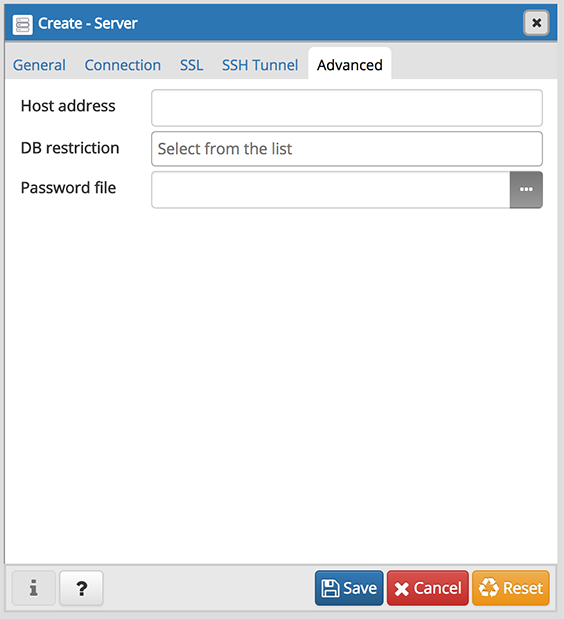
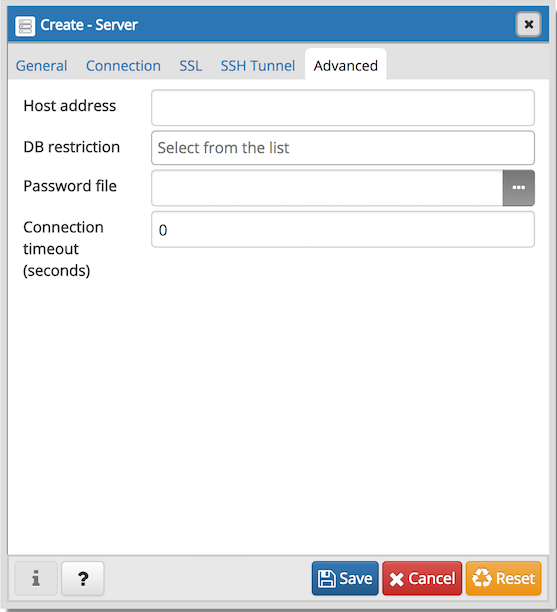
Allow the connection timeout to be configured on a per-server basis. Fixes #3388

Changed region(s): [[0.0, 0.0, 1.0, 1.0], [0.2747, 0.3415, 0.3052, 0.4036], [0.2442, 0.1552, 0.2747, 0.1863]]

diff --git a/web/pgadmin/browser/static/js/datamodel.js b/web/pgadmin/browser/static/js/datamodel.js
@@ -173,8 +173,8 @@ define([
                 id: s.id,
                 label: s.label,
                 type: s.type,
-                min: s.min || undefined,
-                max: s.max || undefined,
+                min: !_.isUndefined(s.min) ? s.min : undefined,
+                max: !_.isUndefined(s.max) ? s.max : undefined,
               };
               break;
             default:
@@ -767,9 +767,9 @@ define([
         min_value = field.min,
         max_value = field.max;
 
-      if (min_value && value < min_value) {
+      if (!_.isUndefined(min_value) && value < min_value) {
         return S(pgAdmin.Browser.messages.MUST_GR_EQ).sprintf(label, min_value).value();
-      } else if (max_value && value > max_value) {
+      } else if (!_.isUndefined(max_value) && value > max_value) {
         return S(pgAdmin.Browser.messages.MUST_LESS_EQ).sprintf(label, max_value).value();
       }
       return null;

diff --git a/web/pgadmin/browser/server_groups/servers/static/js/server.js b/web/pgadmin/browser/server_groups/servers/static/js/server.js
@@ -627,6 +627,7 @@ define('pgadmin.node.server', [
           tunnel_identity_file: undefined,
           tunnel_password: undefined,
           tunnel_authentication: 0,
+          connect_timeout: 0,
         },
         // Default values!
         initialize: function(attrs, args) {
@@ -888,6 +889,11 @@ define('pgadmin.node.server', [
           id: 'service', label: gettext('Service'), type: 'text',
           mode: ['properties', 'edit', 'create'], disabled: 'isConnected',
           group: gettext('Connection'),
+        },{
+          id: 'connect_timeout', label: gettext('Connection timeout (seconds)'),
+          type: 'int', group: gettext('Advanced'),
+          mode: ['properties', 'edit', 'create'], disabled: 'isConnected',
+          min: 0,
         }],
         validate: function() {
           const validateModel = new modelValidation.ModelValidation(this);

diff --git a/web/pgadmin/browser/server_groups/servers/tests/test_add_server_with_connect_timeout.py b/web/pgadmin/browser/server_groups/servers/tests/test_add_server_with_connect_timeout.py
@@ -1,0 +1,47 @@
+##########################################################################
+#
+# pgAdmin 4 - PostgreSQL Tools
+#
+# Copyright (C) 2013 - 2018, The pgAdmin Development Team
+# This software is released under the PostgreSQL Licence
+#
+##########################################################################
+
+import json
+
+from pgadmin.utils.route import BaseTestGenerator
+from regression.python_test_utils import test_utils as utils
+
+
+class ServersWithConnectTimeoutAddTestCase(BaseTestGenerator):
+    """ This class will add the servers under default server group. """
+
+    scenarios = [
+        # Fetch the default url for server object
+        (
+            'Default Server Node url', dict(
+                url='/browser/server/obj/'
+            )
+        )
+    ]
+
+    def setUp(self):
+        pass
+
+    def runTest(self):
+        """ This function will add the server under default server group."""
+        url = "{0}{1}/".format(self.url, utils.SERVER_GROUP)
+        # Add service name in the config
+        self.server['connect_timeout'] = 5
+        response = self.tester.post(
+            url,
+            data=json.dumps(self.server),
+            content_type='html/json'
+        )
+        self.assertEquals(response.status_code, 200)
+        response_data = json.loads(response.data.decode('utf-8'))
+        self.server_id = response_data['node']['_id']
+
+    def tearDown(self):
+        """This function delete the server from SQLite """
+        utils.delete_server_with_api(self.tester, self.server_id)

diff --git a/web/pgadmin/utils/driver/psycopg2/connection.py b/web/pgadmin/utils/driver/psycopg2/connection.py
@@ -307,7 +307,8 @@ class Connection(BaseConnection):
                 sslrootcert=get_complete_file_path(manager.sslrootcert),
                 sslcrl=get_complete_file_path(manager.sslcrl),
                 sslcompression=True if manager.sslcompression else False,
-                service=manager.service
+                service=manager.service,
+                connect_timeout=manager.connect_timeout
             )
 
             # If connection is asynchronous then we will have to wait
@@ -1234,7 +1235,8 @@ WHERE
                 sslrootcert=get_complete_file_path(manager.sslrootcert),
                 sslcrl=get_complete_file_path(manager.sslcrl),
                 sslcompression=True if manager.sslcompression else False,
-                service=manager.service
+                service=manager.service,
+                connect_timeout=manager.connect_timeout
             )
 
         except psycopg2.Error as e:
@@ -1519,7 +1521,8 @@ Failed to reset the connection to the server due to following error:
                     sslcrl=get_complete_file_path(self.manager.sslcrl),
                     sslcompression=True if self.manager.sslcompression
                     else False,
-                    service=self.manager.service
+                    service=self.manager.service,
+                    connect_timeout=self.manager.connect_timeout
                 )
 
                 # Get the cursor and run the query

diff --git a/web/pgadmin/browser/server_groups/servers/__init__.py b/web/pgadmin/browser/server_groups/servers/__init__.py
@@ -480,6 +480,7 @@ class ServerNode(PGChildNodeView):
             'bgcolor': 'bgcolor',
             'fgcolor': 'fgcolor',
             'service': 'service',
+            'connect_timeout': 'connect_timeout',
             'use_ssh_tunnel': 'use_ssh_tunnel',
             'tunnel_host': 'tunnel_host',
             'tunnel_port': 'tunnel_port',
@@ -672,6 +673,8 @@ class ServerNode(PGChildNodeView):
                 'sslcompression': True if is_ssl and server.sslcompression
                 else False,
                 'service': server.service if server.service else None,
+                'connect_timeout':
+                    server.connect_timeout if server.connect_timeout else 0,
                 'use_ssh_tunnel': server.use_ssh_tunnel
                 if server.use_ssh_tunnel else 0,
                 'tunnel_host': server.tunnel_host if server.tunnel_host
@@ -755,6 +758,7 @@ class ServerNode(PGChildNodeView):
                 bgcolor=data.get('bgcolor', None),
                 fgcolor=data.get('fgcolor', None),
                 service=data.get('service', None),
+                connect_timeout=data.get('connect_timeout', 0),
                 use_ssh_tunnel=data.get('use_ssh_tunnel', 0),
                 tunnel_host=data.get('tunnel_host', None),
                 tunnel_port=data.get('tunnel_port', 22),

diff --git a/web/pgadmin/tools/backup/__init__.py b/web/pgadmin/tools/backup/__init__.py
@@ -334,7 +334,15 @@ def create_backup_job(sid):
             cmd=utility, args=args
         )
         manager.export_password_env(p.id)
-        p.set_env_variables(server)
+        # Check for connection timeout and if it is greater than 0 then
+        # set the environment variable PGCONNECT_TIMEOUT.
+        if manager.connect_timeout > 0:
+            env = dict()
+            env['PGCONNECT_TIMEOUT'] = str(manager.connect_timeout)
+            p.set_env_variables(server, env=env)
+        else:
+            p.set_env_variables(server)
+
         p.start()
         jid = p.id
     except Exception as e:
@@ -499,7 +507,15 @@ def create_backup_objects_job(sid):
             cmd=utility, args=args
         )
         manager.export_password_env(p.id)
-        p.set_env_variables(server)
+        # Check for connection timeout and if it is greater than 0 then
+        # set the environment variable PGCONNECT_TIMEOUT.
+        if manager.connect_timeout > 0:
+            env = dict()
+            env['PGCONNECT_TIMEOUT'] = str(manager.connect_timeout)
+            p.set_env_variables(server, env=env)
+        else:
+            p.set_env_variables(server)
+
         p.start()
         jid = p.id
     except Exception as e:

diff --git a/web/pgadmin/model/__init__.py b/web/pgadmin/model/__init__.py
@@ -29,7 +29,7 @@ from flask_sqlalchemy import SQLAlchemy
 #
 ##########################################################################
 
-SCHEMA_VERSION = 16
+SCHEMA_VERSION = 17
 
 ##########################################################################
 #
@@ -145,6 +145,7 @@ class Server(db.Model):
     bgcolor = db.Column(db.Text(10), nullable=True)
     fgcolor = db.Column(db.Text(10), nullable=True)
     service = db.Column(db.Text(), nullable=True)
+    connect_timeout = db.Column(db.Integer(), nullable=False)
     use_ssh_tunnel = db.Column(
         db.Integer(),
         db.CheckConstraint('use_ssh_tunnel >= 0 AND use_ssh_tunnel <= 1'),

diff --git a/web/pgadmin/tools/maintenance/__init__.py b/web/pgadmin/tools/maintenance/__init__.py
@@ -240,7 +240,15 @@ def create_maintenance_job(sid, did):
             cmd=utility, args=args
         )
         manager.export_password_env(p.id)
-        p.set_env_variables(server)
+        # Check for connection timeout and if it is greater than 0 then
+        # set the environment variable PGCONNECT_TIMEOUT.
+        if manager.connect_timeout > 0:
+            env = dict()
+            env['PGCONNECT_TIMEOUT'] = str(manager.connect_timeout)
+            p.set_env_variables(server, env=env)
+        else:
+            p.set_env_variables(server)
+
         p.start()
         jid = p.id
     except Exception as e:

diff --git a/web/pgadmin/tools/restore/__init__.py b/web/pgadmin/tools/restore/__init__.py
@@ -342,7 +342,15 @@ def create_restore_job(sid):
             cmd=utility, args=args
         )
         manager.export_password_env(p.id)
-        p.set_env_variables(server)
+        # Check for connection timeout and if it is greater than 0 then
+        # set the environment variable PGCONNECT_TIMEOUT.
+        if manager.connect_timeout > 0:
+            env = dict()
+            env['PGCONNECT_TIMEOUT'] = str(manager.connect_timeout)
+            p.set_env_variables(server, env=env)
+        else:
+            p.set_env_variables(server)
+
         p.start()
         jid = p.id
     except Exception as e:

diff --git a/web/migrations/versions/493cd3e39c0c_.py b/web/migrations/versions/493cd3e39c0c_.py
@@ -1,0 +1,28 @@
+
+"""empty message
+
+Revision ID: 493cd3e39c0c
+Revises: 7c56ea250085
+Create Date: 2018-06-18 11:26:33.285037
+
+"""
+from alembic import op
+import sqlalchemy as sa
+from pgadmin.model import db
+
+
+# revision identifiers, used by Alembic.
+revision = '493cd3e39c0c'
+down_revision = '7c56ea250085'
+branch_labels = None
+depends_on = None
+
+
+def upgrade():
+    db.engine.execute(
+        'ALTER TABLE server ADD COLUMN connect_timeout INTEGER DEFAULT 0'
+    )
+
+
+def downgrade():
+    pass

diff --git a/web/pgadmin/utils/driver/psycopg2/server_manager.py b/web/pgadmin/utils/driver/psycopg2/server_manager.py
@@ -74,6 +74,8 @@ class ServerManager(object):
         self.sslcrl = server.sslcrl
         self.sslcompression = True if server.sslcompression else False
         self.service = server.service
+        self.connect_timeout = \
+            server.connect_timeout if server.connect_timeout else 0
         if config.SUPPORT_SSH_TUNNEL:
             self.use_ssh_tunnel = server.use_ssh_tunnel
             self.tunnel_host = server.tunnel_host

diff --git a/docs/en_US/server_dialog.rst b/docs/en_US/server_dialog.rst
@@ -85,6 +85,7 @@ Use the fields in the *Advanced* tab to configure a connection:
 * Specify the IP address of the server host in the *Host address* field. Using this field to specify the host IP address may save time by avoiding a DNS lookup on connection, but it may be useful to specify both a host name and address when using Kerberos, GSSAPI, or SSPI authentication methods, as well as for verify-full SSL certificate verification.
 * Use the *DB restriction* field to provide a SQL restriction that will be used against the pg_database table to limit the databases that you see. For example, you might enter: *live_db test_db* so that only live_db and test_db are shown in the pgAdmin browser. Separate entries with a comma or tab as you type.
 * Use the *Password File* field to specify the location of a password file (.pgpass). A .pgpass file allows a user to login without providing a password when they connect.  For more information, see `Section 33.15 of the Postgres documentation <http://www.postgresql.org/docs/current/static/libpq-pgpass.html>`_.
+* Use the *Connection timeout* field to specify the maximum wait for connection, in seconds. Zero or not specified means wait indefinitely. It is not recommended to use a timeout of less than 2 seconds.
 
 *NOTE:* The password file option is only supported when pgAdmin is using libpq v10.0 or later to connect to the server.
 
